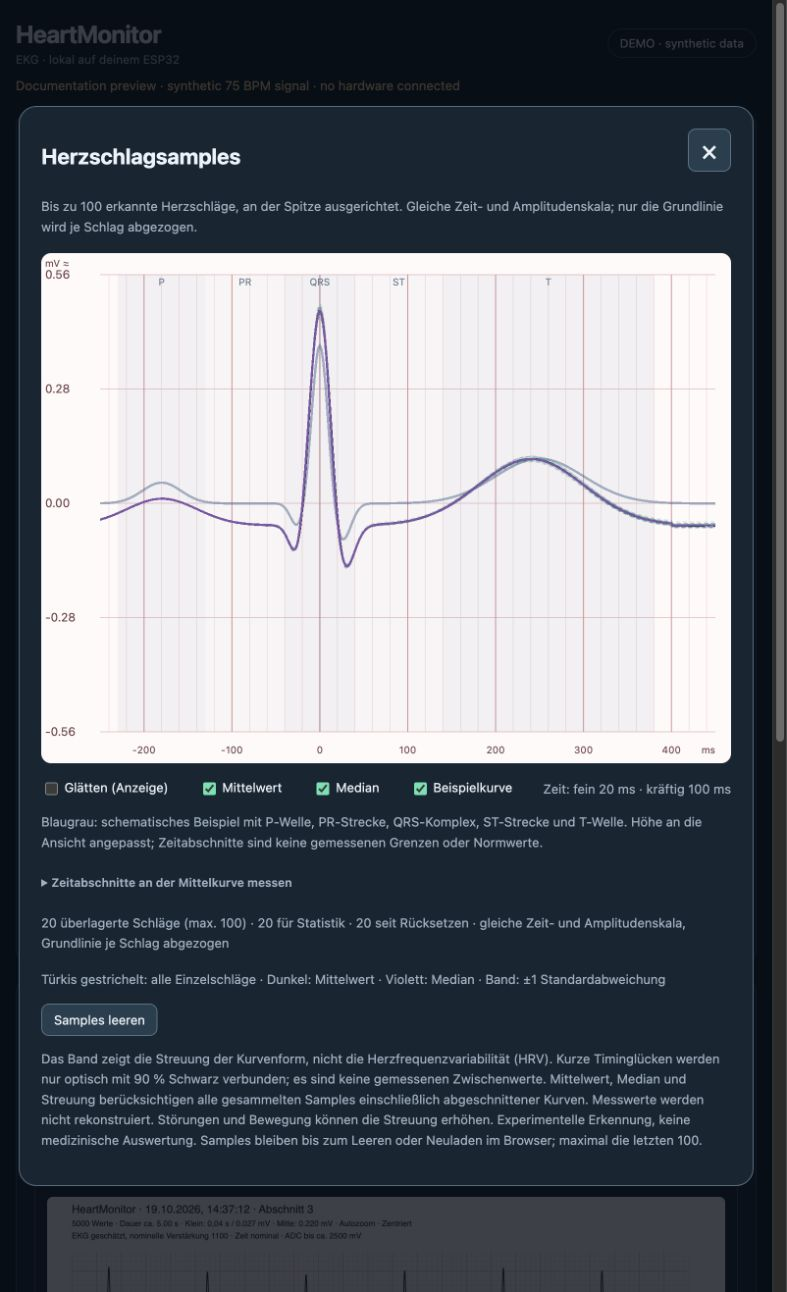
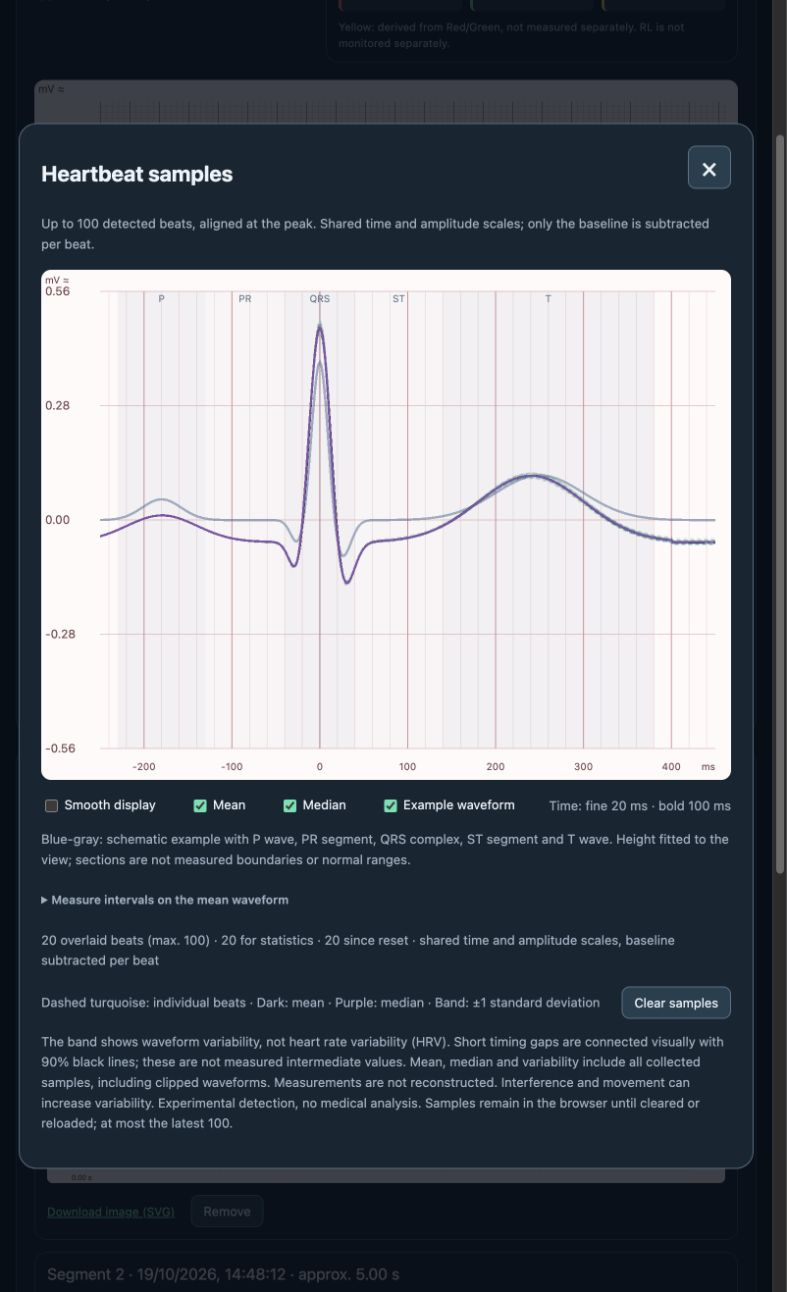
Add screenshots and remove unused preview

diff --git a/README.md b/README.md
@@ -10,7 +10,7 @@ A local ECG monitor built with an **ESP32-C3 SuperMini** and a **SparkFun AD8232
 - Local waveform archive with SVG downloads and zoomable previews
 - Electrode status and a built-in placement guide
 
-The device's web interface is currently in German. Relevant control labels are included below to help you find them.
+The web interface supports **English, German, French, and Spanish**. Select a language in the page header; switching languages keeps your measurements, samples, and archive intact. The initial language follows the browser preference, with English as the fallback. Your selection is saved in the settings cookie. German control labels are included below for reference.
 
 ## Screenshots
 
@@ -83,7 +83,7 @@ The ADC uses `analogReadMilliVolts()` with `ADC_11db`. The nominal settings for 
 
 A small grid square nominally represents **0.04 s**, and a large square **0.20 s**. At **0.1 mV per square**, the amplitude divisions match conventional ECG paper, but screen squares have no guaranteed physical size in millimeters. The active scale appears below the waveform and in SVG exports.
 
-View, voltage mode, height, Autozoom, centering, archive length, and heartbeat display options are stored for one year in the local `heartmonitor_settings` cookie. **Pause** stops only live playback; acquisition, status updates, analysis, and archiving continue.
+Language, view, voltage mode, height, Autozoom, centering, archive length, and heartbeat display options are stored for one year in the local `heartmonitor_settings` cookie. **Pause** stops only live playback; acquisition, status updates, analysis, and archiving continue.
 
 ## Contact status and data gaps
 
@@ -122,7 +122,7 @@ Archive segments contain **25, 50, or 100 large squares**, nominally **5, 10, or
 
 **Save segment now** ("Abschnitt jetzt sichern") closes a shorter partial segment. The open page retains up to **20 images**, then removes the oldest. Segments without at least 0.5 seconds of a continuous visible trace are skipped. Contact gaps remain open in exports.
 
-Click a preview to open the enlarged view with **100–400% zoom**, fit-to-width, scrolling, and panning. Each image can be downloaded as an SVG.
+Click a preview to open the enlarged view with **100–400% zoom**, fit-to-width, scrolling, and panning. Each image can be downloaded as an SVG. New SVGs use the language selected when they are created; existing images retain their original labels when you switch languages.
 
 **The archive exists only in the browser page's RAM. Closing or reloading the page discards the images. Download important segments first.** The ESP32 does not record to flash. Continuous archiving is not reliable while the browser page is closed or inactive for an extended period.
 
@@ -173,11 +173,12 @@ node tests/browser_logic.cjs /tmp/heart-packet-fixture.bin
 node tests/heart_analysis.cjs
 ```
 
-Coverage includes binary encoding and browser decoding, ring buffers and cursors, contact release, timing gaps, heart rate estimation, statistics, archive rendering, and settings restoration. Browser interactions are tested using simulated DOM elements. Software tests do not replace testing in the target browser, load testing on the ESP32, or electrical calibration.
+Coverage includes binary encoding and browser decoding, ring buffers and cursors, contact release, timing gaps, heart rate estimation, statistics, archive rendering, and settings restoration. Language tests cover all four translations, browser-language fallback, saved preferences, accessible labels, SVG exports, and preservation of data and pause/offline states while switching. Automated browser interactions use simulated DOM elements. Software tests do not replace testing in the target browser, load testing on the ESP32, or electrical calibration.
 
 ## Project files and references
 
 - [`HeartMonitor/`](HeartMonitor/): Arduino sketch, configuration, packet format, and embedded interface
+- [`HeartMonitor/translations.h`](HeartMonitor/translations.h): Embedded translation dictionary and language selection logic; no external translation service is used
 - [`tests/`](tests/): Protocol, browser logic, and detector tests
 - [`assets/`](assets/): Wiring diagram and electrode illustrations
 - [`assets/THIRD_PARTY.md`](assets/THIRD_PARTY.md): Attribution and CC0 license for the anatomical illustration
